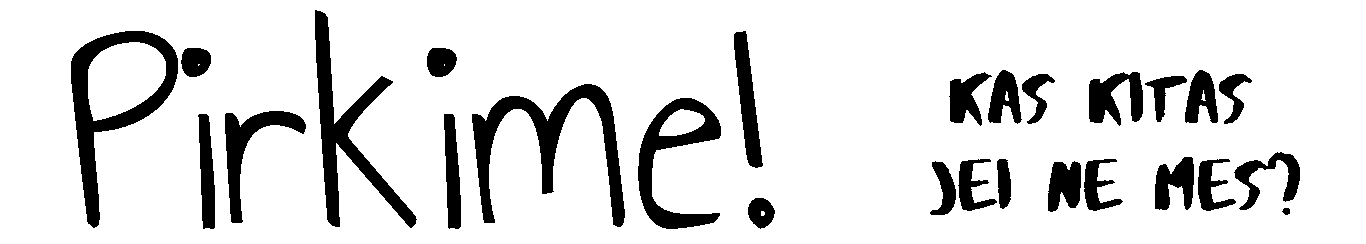
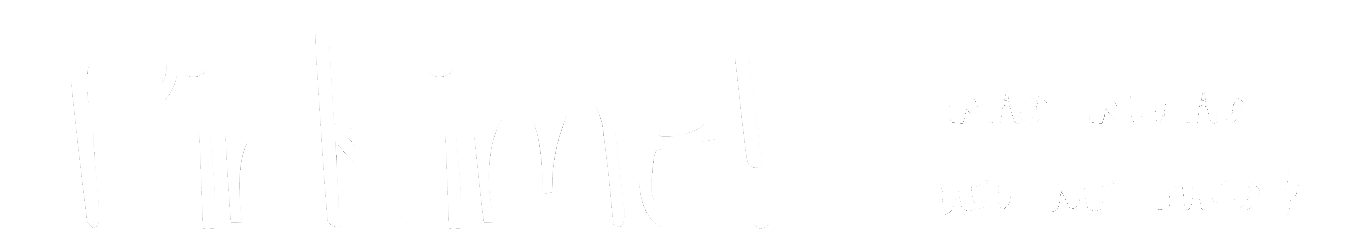
sutvarkyta mazdaug css html header, content ir sidebar

diff --git a/static/css/style.css b/static/css/style.css
@@ -1,3 +1,5 @@
+
+
 body {
     background: linear-gradient(to bottom, #ffffff, #909192), url('fonfon.jpg');
     background-repeat: repeat;
@@ -12,32 +14,96 @@ body {
 /* Meniu stilius */
 nav {
     background-color: #333;
-    background: linear-gradient(to bottom, #000000, #5d5d5d);
+    background: linear-gradient(to bottom, #575A49, #ABA68D);
     overflow: hidden;
+    position: fixed; /* Meniu prilips prie viršaus */
+    top: 300px; /* Nustato, kad meniu prilips prie viršaus */
+    width: 100%; /* Užtikrina, kad meniu užims visą plotį */
+    height: 70px;
+    z-index: 8; /* Užtikrina, kad meniu bus virš kitų elementų */
+    box-shadow: 0 2px 5px rgba(0, 0, 0, 0.2); /* Nedidelis šešėlis, kad meniu išsiskirtų */
 }
 
+/* Meniu elementų stilius */
+nav ul {
+    list-style-type: none; /* Pašalina sąrašų ženklelius */
+    margin: 0;
+    padding: 0;
+    display: flex; /* Padaro meniu elementus horizontaliais */
+    justify-content: center; /* Centruoja meniu elementus */
+}
+
+/* Meniu elementai */
+nav ul li {
+    padding: 15px 20px;
+}
+
+/* Meniu nuorodos */
+nav ul li a {
+    color: white;
+    text-decoration: none;
+    font-size: 1.1rem;
+    padding: 10px;
+    display: block;
+}
+
+/* Pakeičiamas stilius su hover efektu */
+nav ul li a:hover {
+    background-color: #575A49; /* Tamsesnis fonas užvedus pelę */
+    color: #fff;
+}
+
+
+/* Sidebar */
+.sidebar {
+    height: 100%;
+    width: 250px;
+    position: fixed;
+    top: 0;
+    left: 0;
+    background-color: #333;
+    color: white;
+    padding-top: 20px;
+    z-index: 10; /* Užtikrina, kad sidebar bus po meniu */
+}
+
+/* Meniu fiksavimas */
+nav {
+    position: fixed; /* Sticky efektas */
+    top: 0px; /* Meniu prilimpa po header (jei header yra 70px aukščio) */
+    z-index: 12; /* Meniu sluoksnio prioritetas */
+    background: linear-gradient(to bottom, #575A49, #ABA68D);
+    height: 70px; /* Aukštis */
+    box-shadow: 0 2px 5px rgba(0, 0, 0, 0.2); /* Šešėlis */
+    display: flex;
+    align-items: center;
+    justify-content: center;
+    
+}
+
+/* Bendras meniu stilius */
 nav ul {
     list-style-type: none;
     margin: 0;
     padding: 0;
-    text-align: center;
-}
-
-nav ul li {
-    display: inline-block;
+    display: flex;
+    gap: 20px; /* Atstumas tarp meniu elementų */
 }
 
 nav ul li a {
-    display: block;
-    padding: 14px 20px;
     color: white;
     text-decoration: none;
-    text-align: center;
+    padding: 10px 20px;
+    font-size: 1.1rem;
+    border-radius: 5px;
 }
 
 nav ul li a:hover {
-    background-color: #575757;
+    background-color: #575A49;
 }
+
+
+
 
 /* Pagrindinio turinio centravimas */
 .main-content {
@@ -53,6 +119,7 @@ nav ul li a:hover {
     background-repeat: repeat;
     background-size: auto;
     padding: 20px;
+    
 }
 
 .main-content h1,
@@ -62,17 +129,18 @@ nav ul li a:hover {
     border-radius: 5px;  /* Apvalūs kampai */
 }
 
-/* Sidebar styles */
+
+/* Šoninis meniu */
 .sidebar {
-    height: 100%;
-    width: 250px;
-    position: fixed;
-    top: 0;
+    position: fixed; /* Sidebar liks vietoje slenkant */
+    top: 140px; /* Pradedamas rodyti žemiau header ir meniu */
     left: 0;
-    background-color: #333;
-    background: linear-gradient(to bottom, #000000, #00162c);
-    color: white;
-    padding-top: 20px;
+    width: 250px;
+    height: calc(100% - 140px); /* Užima visą likusį ekraną */
+    background: linear-gradient(to bottom, #000000, #575A49);
+    padding: 20px;
+    z-index: 11;
+    box-shadow: 2px 0 5px rgba(0, 0, 0, 0.2); /* Šešėlis */
 }
 
 .sidebar ul {
@@ -99,6 +167,7 @@ nav ul li a:hover {
 .main-content {
     margin-left: 250px;
     padding: 20px;
+    
 }
 
 /* Sidebar title */
@@ -110,23 +179,36 @@ nav ul li a:hover {
 
 /* Styling for large green title */
 .large-green-title {
-    font-size: 40vw;
+    font-size: 30vw;
     font-weight: bold;
     color: green;
     text-align: center;
     margin-top: 0px;
     animation: colorChange 3s infinite;
+    text-shadow: 2px 2px 5px rgba(0, 0, 0, 0.5); /* Teksto šešėlis */
+    display: inline-block; /* Užtikrina, kad fonas apgaubs tik tekstą */
+    padding: 20px; /* Sukuria tarpą tarp teksto ir kraštų */
+    background-color: rgba(255, 255, 255, 0.8); /* Permatomas baltas fonas */
+    border-radius: 10px; /* Užapvalinti kampai */
+    box-shadow: 0 4px 8px rgba(0, 0, 0, 0.3); /* Šešėlis aplink foną */
 }
 
 /* Styling for large green balance */
 .large-green-balance {
-    font-size: 5vw;
+    font-size: 4vw;
     font-weight: bold;
     color: rgb(36, 49, 36);
     text-align: center;
     margin-top: 10px;
     animation: colorChange 3s infinite;
+    text-shadow: 1px 1px 3px rgba(0, 0, 0, 0.4); /* Teksto šešėlis */
+    display: inline-block; /* Užtikrina, kad fonas apgaubs tik tekstą */
+    padding: 10px; /* Sukuria tarpą tarp teksto ir kraštų */
+    background-color: rgba(255, 255, 255, 0.8); /* Permatomas baltas fonas */
+    border-radius: 5px; /* Užapvalinti kampai */
+    box-shadow: 0 2px 5px rgba(0, 0, 0, 0.3); /* Šešėlis aplink foną */
 }
+
 
 /* Color change animation */
 @keyframes colorChange {
@@ -141,12 +223,14 @@ nav ul li a:hover {
     }
 }
 
-/* Main content animation */
 .main-content {
-    margin-left: 250px;
+    margin-left: 250px;  /* Makes space for the sidebar */
+    margin-top: 50px;   /* Adjust this value to be the height of your fixed header and navbar */
     padding: 20px;
     min-height: 100vh;
+    text-align: center;
 }
+
 
 /* Slide-up and fade-in animation */
 @keyframes fadeInUp {
@@ -181,7 +265,7 @@ nav ul li a:hover {
 /* H1 stilius */
 .main-content h1 {
     font-size: 2em;
-    margin-bottom: 10px;
+    
     color: #333;
 }
 
@@ -192,26 +276,48 @@ nav ul li a:hover {
     margin-bottom: 20px;
 }
 
-/* Puslapio galva */
 .header {
-    display: flex;
-    align-items: center;
-    justify-content: center;
-    background-color: #f4f4f9;
+    position: sticky; /* Keep the header fixed */
+    top: 50px; /* Ensures it stays at the top */
+    left: 0;
+    width: 100%;
+    z-index: 10;
+    background-color: white;
+    box-shadow: 0 2px 5px rgba(0, 0, 0, 0.1);
     padding: 20px;
-    border-bottom: 2px solid #ccc;
     text-align: center;
 }
 
+
+/* Fono paveikslėlio stilius */
+.header::before {
+    content: ''; /* Sukuriame tuščią elementą */
+    position: absolute; /* Pozicionuojame jį už turinio */
+    top: 0;
+    left: 0;
+    width: 100%;
+    height: 100%;
+    background: url('header_fon.jpg');
+    background-size: auto; /* Paveikslėlis bus rodomas savo natūraliais matmenimis */
+    background-position: center; /* Fonas bus centre */
+    filter: blur(5px); /* Paveikslėlio išblurinimas */
+    z-index: -1; /* Paveikslėlis bus už tekstų */
+    background-repeat: repeat; /* Paveikslėlis kartosis tiek horizontaliai, tiek vertikaliai */
+}
+
+/* Header tekstas */
 .header h1 {
     font-size: 2rem;
     color: #333;
     margin: 0;
-    background-color: white;  /* Baltas fonas */
+    background-color: rgba(255, 255, 255, 0.7); /* Šiek tiek permatomas baltas fonas */
     padding: 10px;  /* Tarpai aplink tekstą */
-    border-radius: 5px;  /* Apvalūs kampai */
+    border-radius: 1px;  /* Apvalūs kampai */
+    z-index: 1; /* Užtikrina, kad tekstas bus virš blur fono */
 }
 
+
+/* Header img - aiškus paveikslėlis */
 .header img {
     width: 100%;
     height: auto;
@@ -219,7 +325,11 @@ nav ul li a:hover {
     margin-right: 20px;
     margin-left: 250px;
     padding: 20px;
+    z-index: 1; /* Paveikslėlis bus virš blur fono */
+    position: relative; /* Pozicionuojame paveikslėlį virš blur fono */
 }
+
+
 
 /* Formos konteineris */
 .form-container {

diff --git a/mod/templates/base.html b/mod/templates/base.html
@@ -4,17 +4,16 @@
     <meta charset="UTF-8">
     <meta name="viewport" content="width=device-width, initial-scale=1.0">
     <link rel="stylesheet" href="{{ url_for('static', filename='css/style.css') }}">
-    
 </head>
 <body>
-        <!-- Puslapio Galva -->
-        <header class="header">
-            <div class="header-content">
-                <img src="{{ url_for('static', filename='images/header.png') }}" alt="Puslapio galva">
-                
-            </div>
-        </header>
-    <!-- Main Navigation -->
+    <!-- Header Section -->
+    <header class="header">
+        <div class="header-content">
+            <img src="{{ url_for('static', filename='images/header.png') }}" alt="Puslapio galva">
+        </div>
+    </header>
+
+    <!-- Navigation Menu -->
     <nav>
         <ul>
             <li><a href="{{ url_for('home') }}">Pagrindinis</a></li>
@@ -24,7 +23,7 @@
         </ul>
     </nav>
 
-    <!-- Sidebar for user menu -->
+    <!-- Sidebar Menu -->
     <div class="sidebar">
         <h2 class="sidebar-title">Pirkėjo meniu</h2>
         <ul>
@@ -32,20 +31,21 @@
             <li><a href="{{ url_for('balansas') }}">Mano balansas</a></li>
             <li><a href="{{ url_for('add_balansas') }}">Papildyti balansą</a></li>
         </ul>
-    
-            <h2 class="sidebar-title">Admin meniu</h2>
+
+        <h2 class="sidebar-title">Admin meniu</h2>
         <ul>
             <li><a href="{{ url_for('new_cargo') }}">Pridėti naują prekę</a></li>
             <li><a href="{{ url_for('add_cargo') }}">Papildyti prekių kiekį</a></li>
             <li><a href="{{ url_for('delete_cargo') }}">Pašalinti prekę</a></li>
-            <li><a href="{{ url_for('delete_user') }}">Ištrinti sistemos vartotoją</a></li>
+            <li><a href="{{ url_for('delete_user') }}">Ištrinti vartotoją</a></li>
             <li><a href="{{ url_for('stat_cargo') }}">Prekių statistika</a></li>
-
-
         </ul>
     </div>
-    <!-- Main Content Section -->
+
+    <!-- Main Content -->
     <div class="main-content">
+
+        
         {% block content %}{% endblock %}
     </div>
 </body>
